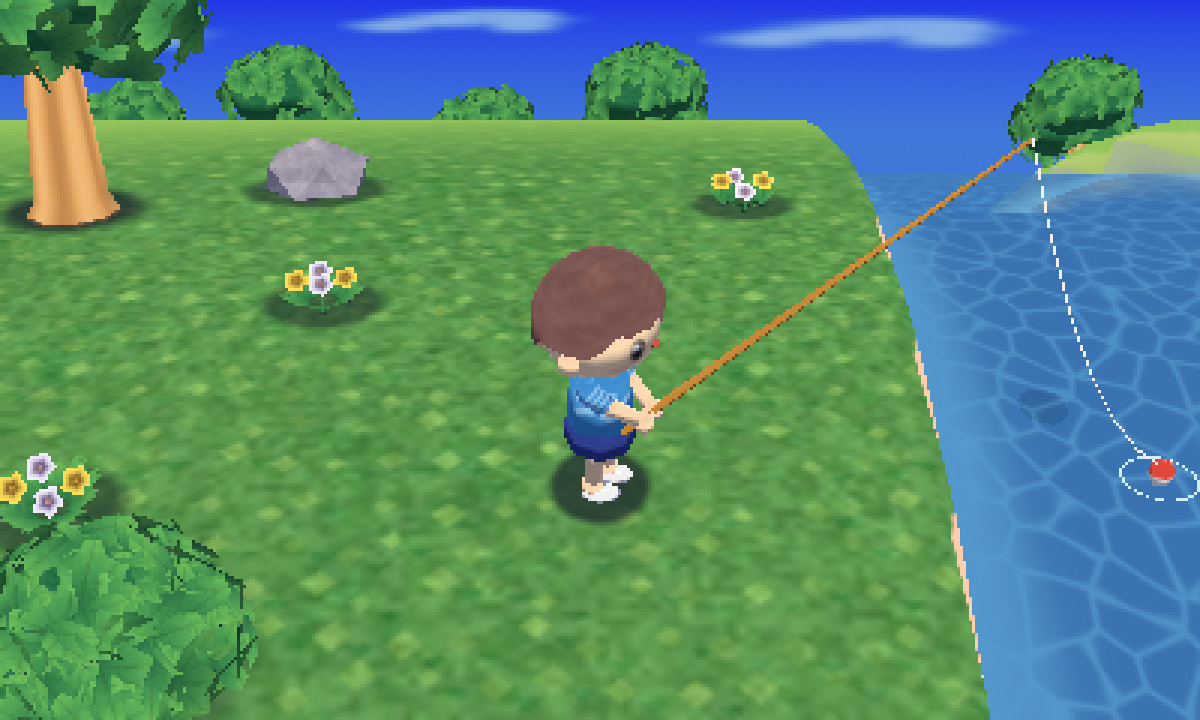
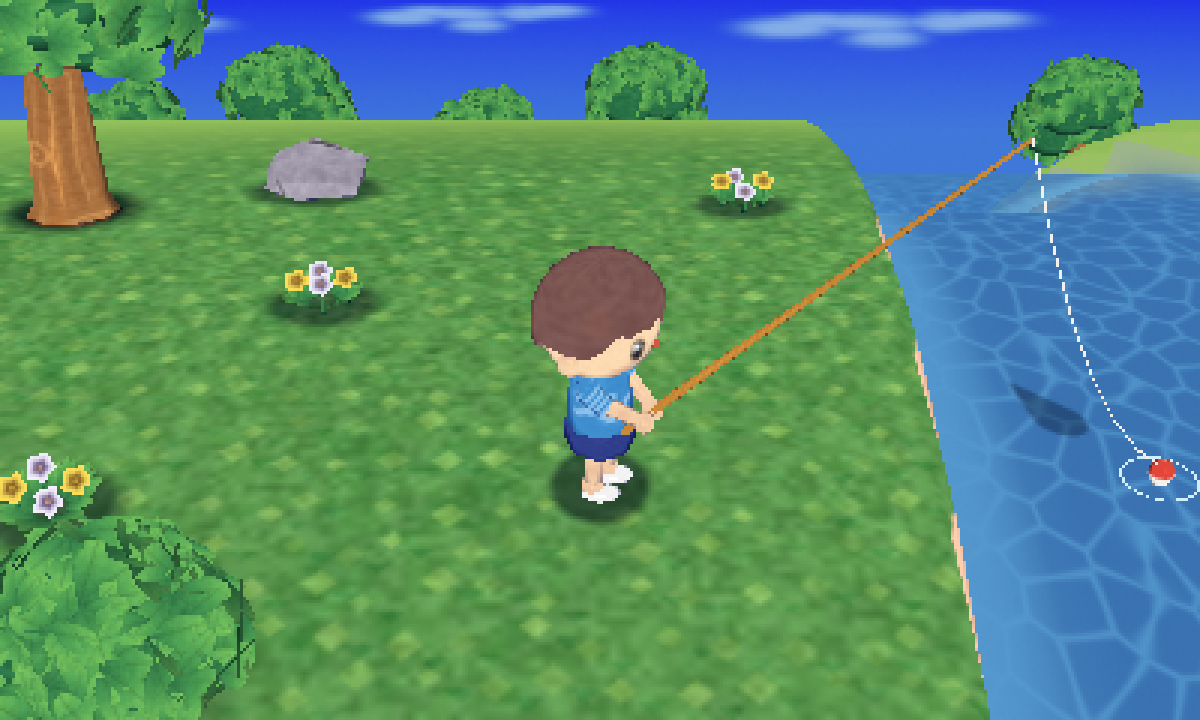
Town test scene: headlight key, multiply shadows, painted bark, teardrop fish
Key light moves to a camera side headlight per the blueprint; shadows now
multiply the ground so the painted grass shows through; bark gets swirl
knots, grain and crevices, rocks get painted cracks; the fish shadow is a
soft teardrop drawn after the water. Adds grain_compare.py, a heat map QA
image of surface detail. Blueprint section 15 records the settings.

Claude-Session: https://claude.ai/code/session_017uV2ZEHp81Umsc7vn6nowa

diff --git a/style_test_town/town_river_test.py b/style_test_town/town_river_test.py
@@ -45,7 +45,9 @@ RES = (1200, 720)            # 5:3 game frame at 3x, clean (section 12.2 item 11
 NATIVE = (400, 240)
 SAMPLES = 16
 
-SUN = Vector((0.0, -0.34, 0.94)).normalized()   # E frontal key from the camera side (section 2)
+# Key light from the camera side ("headlight", section 2: brightest band central on round forms, falloff toward
+# every silhouette edge, no left or right bias): along the reversed view direction, 35 deg above the ground.
+SUN = Vector((0.0, -math.cos(math.radians(35.0)), math.sin(math.radians(35.0)))).normalized()
 LUT_SHADOW_SRGB = (0.54, 0.56, 0.65)            # M NL rock, section 2
 # The measured light end (1.46, 1.38, 1.20) is an UPPER BOUND that includes painted texture variation (section 2).
 # Applied as lighting on top of painted textures it double counts and reads as shine, so the light term is kept
@@ -64,7 +66,14 @@ BLOB_CORE_ALPHA = 0.88
 # open grass near its rim and darker toward the trunk; ground under flower clumps 0.68; rock contact band dark.
 # Same blend target as the player blob. Core alpha for a displayed ratio k on #5A964C (lin G 0.305):
 # a = (0.305 - lin(150 k)) / (0.305 - 0.028): k 0.66 gives 0.65 (contact), k 0.75 gives 0.52 (canopy).
-CONTACT_ALPHA, CANOPY_ALPHA = 0.72, 0.68      # tuned on the render to hit the measured ratios
+CONTACT_ALPHA, CANOPY_ALPHA = 0.72, 0.68      # tuned on the render to hit the measured ratios (blend mode)
+# Multiply mode (default): shadows darken the ground and keep its painted texture (NL#946: the grass print runs
+# through every shadow; a blend toward a flat colour reads as a sticker). Displayed (sRGB) core ratios, measured:
+# player blob R = G about 0.46, blue multiplied less (0.62); flower ground 0.68; canopy darker inside, 0.77 to 0.84
+# at the rim. Blue is lifted relative to R and G, as measured. A multiply cannot raise blue, so the lime "emote"
+# grass keeps the blend mode.
+SHADOW_MUL = {"blob": (0.54, 0.54, 0.68), "contact": (0.58, 0.58, 0.72), "canopy": (0.58, 0.60, 0.72)}
+SHADOW_MODE = "multiply"
 CANOPY_SHADOW_FRAC = 0.65
 
 PAL = {
@@ -256,6 +265,15 @@ def tex_rock():
     n = 0.6 * fbm(w, h, 4, 3, RNG) + 0.4 * fbm(w, h, 16, 1, RNG)
     v = np.linspace(0, 1, h)[:, None]
     col = ramp(0.25 + 0.5 * n + 0.2 * (1 - v), ["#7E7590", PAL["rock"], "#C9C3D2"])
+    yy, xx = np.mgrid[0:h, 0:w]
+    for k in range(4):                                   # painted cracks: thin dark wandering lines
+        x0, y0 = RNG.uniform(0, w), RNG.uniform(0, h)
+        ang = RNG.uniform(0, math.pi)
+        for t in np.linspace(0, 22, 60):
+            ang += RNG.uniform(-0.25, 0.25)
+            x0, y0 = (x0 + math.cos(ang) * 0.4) % w, (y0 + math.sin(ang) * 0.4) % h
+            d = np.hypot(xx - x0, yy - y0)
+            col = np.where((d < 0.9)[..., None], col * 0.72, col)
     return make_image("T_Rock", grain(col, 0.05))
 
 
@@ -345,10 +363,25 @@ def tex_foliage():
 
 
 def tex_bark():
-    w, h = 32, 64
-    u = np.linspace(0, 1, w)[None, :] * np.ones((h, 1))
-    g = 0.5 + 0.5 * np.sin(2 * np.pi * (u * 5 + 0.3 * fbm(w, h, 2, 2, RNG)))
-    return make_image("T_Bark", ramp(0.25 + 0.5 * g, [PAL["wood_dark"], PAL["wood"], PAL["wood_light"]]))
+    """Painted bark (NL#946, 953 by eye): warm wood, vertical grain streaks that bend around one or two swirl knots
+    (concentric rings, light centre), darker crevices. 96 x 192 so the knots stay readable on a fat trunk."""
+    w, h = 96, 192
+    yy, xx = np.mgrid[0:h, 0:w].astype(float)
+    u, v = xx / w, yy / h
+    knots = [(0.12, 0.62, 0.13, 0.08), (0.40, 0.30, 0.10, 0.06), (0.63, 0.70, 0.14, 0.08), (0.88, 0.40, 0.09, 0.06)]
+    warp = np.zeros((h, w))
+    ring = np.zeros((h, w))
+    for cx, cy, rx, ry in knots:
+        du = (u - cx + 0.5) % 1.0 - 0.5
+        d = np.sqrt((du / rx) ** 2 + ((v - cy) / ry) ** 2)
+        warp += np.exp(-d * 1.2) * np.sign(du) * 0.06
+        inside = d < 1.6
+        ring = np.where(inside, np.maximum(ring, (0.5 + 0.5 * np.cos(d * 9.0)) * smoothstep(1.6, 0.6, d)), ring)
+    streak = 0.5 + 0.5 * np.sin(2 * np.pi * ((u + warp) * 9 + 0.6 * fbm(w, h, 3, 2, RNG)))
+    crevice = smoothstep(0.12, 0.0, np.abs(((u + warp) * 9 + 0.6 * fbm(w, h, 3, 2, RNG)) % 1.0 - 0.5) - 0.38)
+    t = 0.45 + 0.22 * (streak - 0.5) + 0.42 * (ring - 0.3) - 0.35 * crevice + 0.1 * (fbm(w, h, 8, 2, RNG) - 0.5)
+    col = ramp(t, [PAL["wood_dark"], PAL["wood"], PAL["wood_light"]])
+    return make_image("T_Bark", grain(col, 0.04))
 
 
 def tex_face():
@@ -531,6 +564,30 @@ def unlit(name, color):
     em = nt.nodes.new("ShaderNodeEmission")
     em.inputs["Color"].default_value = (*lin(hexc(color)), 1)
     link(nt, em.outputs[0], out.inputs["Surface"])
+    return m
+
+
+def shadow_mat(name, key, inner=0.2, wobble=0.0):
+    """Multiply decal: Transparent BSDF tinted by mix(white, core multiply, profile). Ratios are converted from
+    displayed (sRGB) to linear with the exact curve on a mid ground value, then raised as needed."""
+    if SHADOW_MODE != "multiply":
+        alpha = {"blob": BLOB_CORE_ALPHA, "contact": CONTACT_ALPHA, "canopy": CANOPY_ALPHA}[key]
+        return blob_mat(name, alpha, BLOB_TINT_LIN, inner=max(inner, 0.45), wobble=wobble)
+    mul_lin = tuple(k ** 2.2 for k in SHADOW_MUL[key])
+    m = blob_mat(name, 1.0, (0, 0, 0), inner=inner, wobble=wobble)
+    nt = m.node_tree
+    mr = next(n for n in nt.nodes if n.bl_idname == "ShaderNodeMapRange" and n.inputs["To Max"].default_value == 1.0)
+    out = next(n for n in nt.nodes if n.bl_idname == "ShaderNodeOutputMaterial")
+    for n in [n for n in nt.nodes if n.bl_idname in ("ShaderNodeBsdfTransparent", "ShaderNodeEmission", "ShaderNodeMixShader")]:
+        nt.nodes.remove(n)
+    mx = nt.nodes.new("ShaderNodeMix")
+    mx.data_type = "RGBA"
+    link(nt, mr.outputs["Result"], mx.inputs[0])
+    mx.inputs[6].default_value = (1, 1, 1, 1)
+    mx.inputs[7].default_value = (*mul_lin, 1)
+    tr = nt.nodes.new("ShaderNodeBsdfTransparent")
+    link(nt, mx.outputs[2], tr.inputs["Color"])
+    link(nt, tr.outputs[0], out.inputs["Surface"])
     return m
 
 
@@ -763,7 +820,12 @@ def build_water(col, M):
     for j in range(len(ys) - 1):
         for i in range(16):
             bm.faces.new((rows[j][i], rows[j][i + 1], rows[j + 1][i + 1], rows[j + 1][i]))
-    return mesh_object("Water", bm, col, [M["water"]], smooth=False)
+    # origin far up river: EEVEE sorts blended objects by origin distance, so the water is drawn before the fish
+    # silhouette, which then reads clearly through it
+    o = Vector((2.8, 24.0, WATER_Z))
+    for v in bm.verts:
+        v.co -= o
+    return mesh_object("Water", bm, col, [M["water"]], smooth=False, loc=o)
 
 
 def leaf_cards(bm, uv, center, radius, n, size, rng, squash=0.9):
@@ -1020,11 +1082,23 @@ def build_player(col, M):
     bm_tube(bm, uv, [grip - Vector((0.1, 0.0, 0.07)), tip], [0.018, 0.007], 6, v0=0.0, v1=1.0)
     mesh_object("Rod", bm, col, [M["rod"]])
     bob = Vector((2.35, 0.55, WATER_Z + 0.02))
-    bm, uv = new_bm()                                    # fish shadow: dark spindle a little below the surface
+    # fish shadow: a soft teardrop a little below the surface, round head toward the bobber, pointed tail
+    # (reference captures supplied by the user: length about 3x width, widest about 0.3 from the head, by eye)
     fc = Vector((2.05, 1.25, WATER_Z - 0.06))
-    bm_sphere(bm, uv, fc, 0.16, scale=(0.55, 1.0, 0.18), segs=12, rings=5,
-              rot=Vector((0, 1, 0)).rotation_difference((bob - fc).normalized()))
-    mesh_object("FishShadow", bm, col, [M["fish"]], smooth=True)
+    head_dir = (bob - fc)
+    head_dir.z = 0
+    head_dir.normalize()
+    sdir = Vector((-head_dir.y, head_dir.x, 0))
+    Lf = 0.55
+    bm, uv = new_bm()
+    vs = [bm.verts.new(c) for c in (fc + head_dir * Lf * 0.5 + sdir * Lf * 0.25, fc + head_dir * Lf * 0.5 - sdir * Lf * 0.25,
+                                    fc - head_dir * Lf * 0.5 - sdir * Lf * 0.25, fc - head_dir * Lf * 0.5 + sdir * Lf * 0.25)]
+    f = bm.faces.new([bm.verts.new(v.co - fc) for v in vs])
+    for v in vs:
+        bm.verts.remove(v)
+    for lp, q in zip(f.loops, ((1, 1), (1, 0), (0, 0), (0, 1))):
+        lp[uv].uv = q
+    mesh_object("FishShadow", bm, col, [M["fish"]], smooth=False, loc=fc)
     bm, uv = new_bm()
     pts = []
     for k in range(7):
@@ -1045,6 +1119,38 @@ def build_player(col, M):
         bm.faces.new((ring[i], ring[20 + i], ring[20 + j], ring[j]))
     mesh_object("Ripple", bm, col, [M["foam"]], smooth=False)
     return head_c, bob
+
+
+def tex_fish():
+    """Teardrop alpha: u along the body (1 = head), v across. Round head, widest at 0.3 from the head, straight
+    taper to a pointed tail; soft edge."""
+    w, h = 128, 48
+    yy, xx = np.mgrid[0:h, 0:w]
+    u, v = xx / (w - 1), (yy / (h - 1) - 0.5) * 2
+    t = 1 - u                                            # 0 at the head tip, 1 at the tail tip
+    half = np.where(t < 0.3, np.sqrt(np.clip(1 - ((0.3 - t) / 0.3) ** 2, 0, 1)), np.clip((1 - t) / 0.7, 0, 1) ** 0.9)
+    edge = half * 0.9 - np.abs(v)
+    a = smoothstep(-0.05, 0.12, edge) * 0.62
+    return make_image("T_Fish", np.ones((h, w, 3)) * hexc("#0E2448"), a)
+
+
+def fish_mat():
+    m = bpy.data.materials.new("M_Fish")
+    nt = m.node_tree
+    nt.nodes.clear()
+    out = nt.nodes.new("ShaderNodeOutputMaterial")
+    t = nt.nodes.new("ShaderNodeTexImage")
+    t.image, t.interpolation, t.extension = tex_fish(), "Linear", "CLIP"
+    em = nt.nodes.new("ShaderNodeEmission")
+    link(nt, t.outputs["Color"], em.inputs["Color"])
+    tr = nt.nodes.new("ShaderNodeBsdfTransparent")
+    mx = nt.nodes.new("ShaderNodeMixShader")
+    link(nt, t.outputs["Alpha"], mx.inputs[0])
+    link(nt, tr.outputs[0], mx.inputs[1])
+    link(nt, em.outputs[0], mx.inputs[2])
+    link(nt, mx.outputs[0], out.inputs["Surface"])
+    m.surface_render_method = "BLENDED"
+    return m
 
 
 def blob(col, m, name, center, rx, ry):
@@ -1188,10 +1294,10 @@ def build(native=False):
         "bobber": mat("M_Bobber", image=T["bobber"]),
         "foam": unlit("M_Foam", "#CFEFFF"),
         "nose": mat("M_Nose", image=tex_flat("T_Nose", ["#B84838", PAL["nose"], "#E06A55"], 0.02, 2), rim=1.0),
-        "fish": unlit("M_Fish", "#0E2448"),
-        "blob": blob_mat("M_Blob", BLOB_CORE_ALPHA, BLOB_TINT_LIN),
-        "contact": blob_mat("M_Contact", CONTACT_ALPHA, BLOB_TINT_LIN, inner=0.70, wobble=0.10),
-        "canopy": blob_mat("M_CanopyShadow", CANOPY_ALPHA, BLOB_TINT_LIN, inner=0.55, wobble=0.16),
+        "fish": fish_mat(),
+        "blob": shadow_mat("M_Blob", "blob", inner=0.75),
+        "contact": shadow_mat("M_Contact", "contact", inner=0.60, wobble=0.10),
+        "canopy": shadow_mat("M_CanopyShadow", "canopy", inner=0.40, wobble=0.16),
         "cloud": cloud_mat(T["cloud"]),
     }
     world = bpy.data.collections.new("World")
@@ -1328,8 +1434,9 @@ def main():
     a = p.parse_args(argv)
     if a.grass == "emote":
         PAL.update(GRASS_EMOTE)
-        global BLOB_CORE_ALPHA
+        global BLOB_CORE_ALPHA, SHADOW_MODE
         BLOB_CORE_ALPHA = 0.86
+        SHADOW_MODE = "blend"
     if a.grass == "press":
         PAL.update(GRASS_PRESS)
         # press grass is teal green, not lime: solve the blend target so each channel falls to about 0.48 (sRGB)

diff --git a/style_test_town/grain_compare.py b/style_test_town/grain_compare.py
@@ -1,0 +1,66 @@
+"""Grain comparison image: renders and reference captures side by side, each with a heat map of local surface
+detail (|luminance minus its 3x3 mean|, the blueprint section 15 grain metric) and its median.
+
+    python3 grain_compare.py out.png ours.png [ref1.png ...] [--labels "ours,NL#946,..."] [--size 400x240]
+
+Every input is resized to the same size first (default 400x240, the native NL frame) so the numbers compare.
+Reference captures are only read, never copied into the repository.
+"""
+import argparse
+
+import numpy as np
+from PIL import Image, ImageDraw
+
+
+def grain_map(rgb):
+    a = rgb.astype(float)
+    L = 0.2126 * a[..., 0] + 0.7152 * a[..., 1] + 0.0722 * a[..., 2]
+    p = np.pad(L, 1, mode="edge")
+    mean = sum(p[i:i + L.shape[0], j:j + L.shape[1]] for i in range(3) for j in range(3)) / 9
+    return np.abs(L - mean)
+
+
+def colourise(g, vmax=8.0):
+    """Dark blue (flat) to yellow (busy), so smooth regions stand out."""
+    t = np.clip(g / vmax, 0, 1)[..., None]
+    stops = np.array([[10, 12, 40], [70, 30, 120], [200, 60, 80], [250, 170, 40], [255, 245, 150]], float)
+    x = t * (len(stops) - 1)
+    i = np.minimum(x.astype(int), len(stops) - 2)
+    f = x - i
+    return (stops[i[..., 0]] * (1 - f) + stops[i[..., 0] + 1] * f).astype(np.uint8)
+
+
+def main():
+    p = argparse.ArgumentParser()
+    p.add_argument("out")
+    p.add_argument("images", nargs="+")
+    p.add_argument("--labels")
+    p.add_argument("--size", default="400x240")
+    a = p.parse_args()
+    w, h = (int(v) for v in a.size.split("x"))
+    labels = a.labels.split(",") if a.labels else [f"image {i}" for i in range(len(a.images))]
+    cols = []
+    for path, lab in zip(a.images, labels):
+        im = Image.open(path).convert("RGB").resize((w, h), Image.BILINEAR)
+        g = grain_map(np.asarray(im))
+        med, p25, p75 = np.median(g), np.percentile(g, 25), np.percentile(g, 75)
+        smooth = float((g < 0.5).mean())
+        cols.append((im, Image.fromarray(colourise(g)), f"{lab}: grain median {med:.2f} (p25 {p25:.2f}, p75 {p75:.2f}), "
+                                                        f"flat px {smooth:.0%}"))
+        print(cols[-1][2])
+    pad = 22
+    sheet = Image.new("RGB", (len(cols) * (w + 8) + 8, 2 * h + 3 * pad), (24, 24, 28))
+    dr = ImageDraw.Draw(sheet)
+    for k, (im, gm, txt) in enumerate(cols):
+        x = 8 + k * (w + 8)
+        dr.text((x, 4), txt, fill=(240, 240, 240))
+        sheet.paste(im, (x, pad))
+        sheet.paste(gm, (x, pad + h + pad))
+    dr.text((8, 2 * h + 2 * pad + 4), "heat map: dark blue = flat (no painted detail), yellow = busy; scale 0 to 8 luminance levels",
+            fill=(200, 200, 200))
+    sheet.save(a.out)
+    print("wrote", a.out)
+
+
+if __name__ == "__main__":
+    main()

diff --git a/style_blueprint/BLUEPRINT.md b/style_blueprint/BLUEPRINT.md
@@ -698,3 +698,23 @@ New evidence and corrections found while building `style_test_town/town_river_te
   head) covering top, back and sides down to the ear tops, with a zigzag fringe of about 6 teeth across the forehead;
   soft pink cheeks. Hair texture: low contrast mottle plus a sheen band, not stripes radiating from the crown (those
   read as a melon on a UV sphere).
+* Lighting and shadows (fourth test pass, compared side by side with NL#946):
+  * Key light as a camera side headlight along the reversed view direction, 35 deg above the ground (section 2:
+    brightest band central on round forms, falloff toward every silhouette edge). The earlier near overhead key
+    (elevation about 70 deg) left trunks and rocks flat lit.
+  * Shadows MULTIPLY the ground (Transparent BSDF tint in Blended mode) so the painted grass runs through them, as in
+    NL#946. Alpha blending toward a flat dark colour reads as a pasted sticker; keep it only for lime grass, where blue
+    must rise. Displayed core multipliers used (converted to linear by the 2.2 power): player (0.54, 0.54, 0.68),
+    contact (0.58, 0.58, 0.72), canopy (0.58, 0.60, 0.72); render QA: player R and G 0.44 and 0.49, flower ground 0.71,
+    canopy rim 0.86 (targets 0.45, 0.68, 0.77 to 0.84). Profiles: player plateau 0.75 of the radius, contact 0.60,
+    canopy 0.40 with a wobbly edge.
+* Fish silhouettes (reference captures supplied by the user, by eye): a soft teardrop about 3 times as long as wide,
+  round head (toward the bobber or the direction of travel), widest about 0.3 of the length from the head, straight
+  taper to a pointed tail; dark (#0E2448) at about 0.6 opacity so the caustic lines show through. Draw it after the
+  water: give the water object a far origin, because EEVEE sorts Blended objects by origin distance.
+* Bark: painted swirl knots (concentric rings with a light centre, about 0.1 to 0.14 of the texture width) with the
+  vertical grain streaks bending around them, plus darker crevices (NL#946, 953 by eye).
+* Grain QA image: `style_test_town/grain_compare.py` puts a render beside reference captures with a heat map of
+  |L minus its 3x3 mean| and the median. Last run, all resized to 400x240: ours 1.76 (flat pixels 23%), retail stream
+  capture 1.64 (20%, softened by the stream upscale), NL#946 press 4.62 (10%). Flattest areas left: hair cap, skin,
+  open water.
